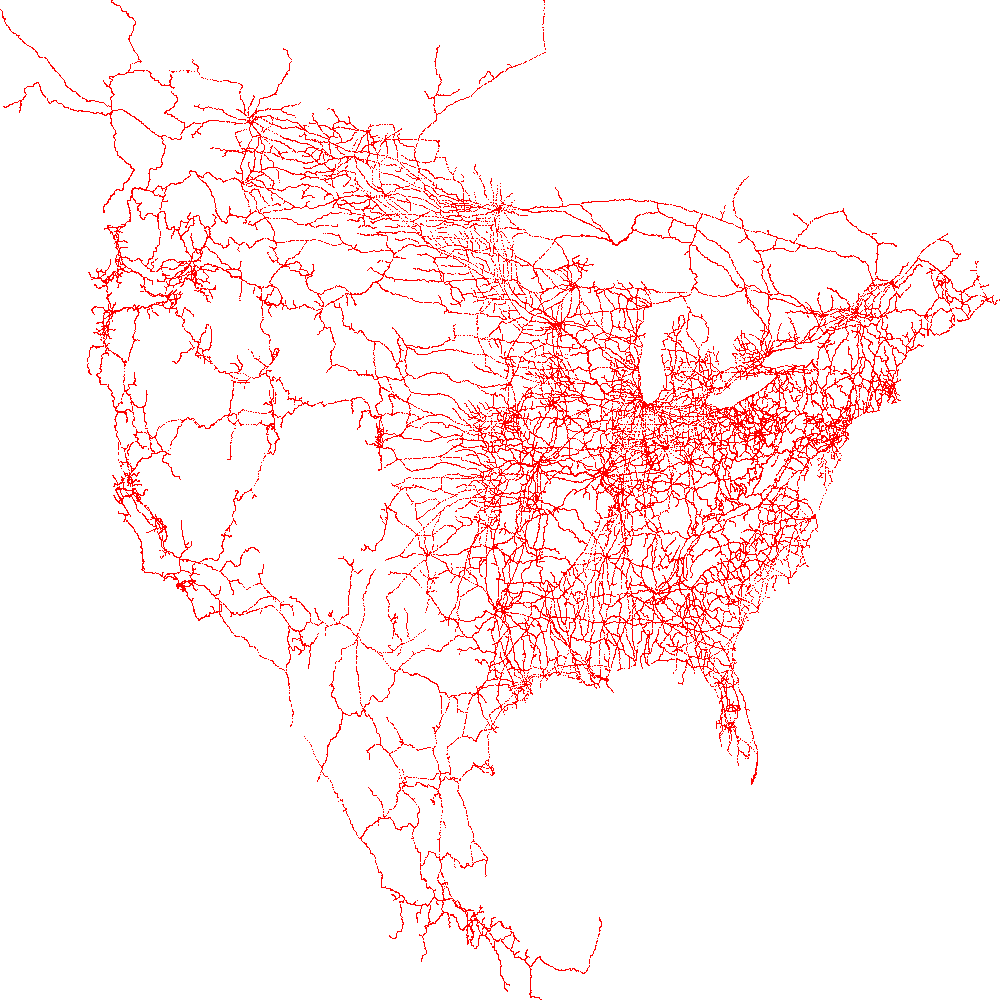
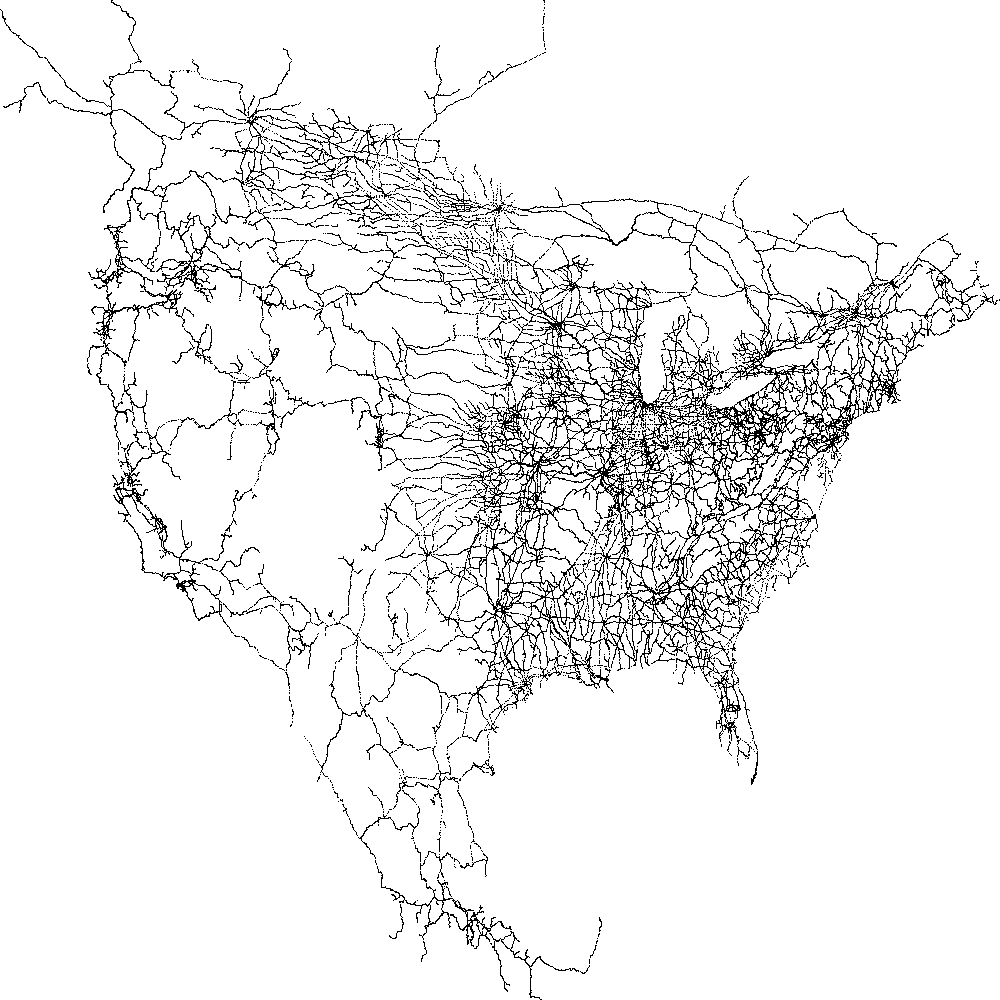
update visualization test cases

diff --git a/tests/test_Dijkstra.cpp b/tests/test_Dijkstra.cpp
@@ -21,12 +21,11 @@ TEST_CASE("Dijkstra works on simple route", "[line]") {
     graphReader.readNodes();
     graphReader.readEdges();
 
-    std::vector<int> path = graph.Dijkstra(7,8);
+    std::vector<int> path = graph.Dijkstra(7, 8);
 
     REQUIRE(path.size() == 2);
     REQUIRE(path[0] == 8);
     REQUIRE(path[1] == 8);
-
 
 }
 
@@ -38,7 +37,7 @@ TEST_CASE("Dijkstra works on cyclic route 1", "[cycle]") {
     graphReader.readNodes();
     graphReader.readEdges();
 
-    std::vector<int> path = graph.Dijkstra(1,5);
+    std::vector<int> path = graph.Dijkstra(1, 5);
 
     REQUIRE(path.size() == 5);
     REQUIRE(path[0] == 2);
@@ -57,7 +56,7 @@ TEST_CASE("Dijkstra works on cyclic route 2", "[cycle]") {
     graphReader.readNodes();
     graphReader.readEdges();
 
-    std::vector<int> path = graph.Dijkstra(2,6);
+    std::vector<int> path = graph.Dijkstra(2, 6);
 
     REQUIRE(path.size() == 4);
     REQUIRE(path[0] == 4);
@@ -75,7 +74,7 @@ TEST_CASE("Dijkstra works on cyclic route 3", "[cycle]") {
     graphReader.readNodes();
     graphReader.readEdges();
 
-    std::vector<int> path = graph.Dijkstra(1,6);
+    std::vector<int> path = graph.Dijkstra(1, 6);
 
     REQUIRE(path.size() == 6);
     REQUIRE(path[0] == 2);
@@ -95,7 +94,7 @@ TEST_CASE("Dijkstra works on dsiconnected route ", "[disconnected]") {
     graphReader.readNodes();
     graphReader.readEdges();
 
-    std::vector<int> path = graph.Dijkstra(1,7);
+    std::vector<int> path = graph.Dijkstra(1, 7);
 
     REQUIRE(path.size() == 6);
     REQUIRE(path[0] == 2);

diff --git a/tests/test_BFS.cpp b/tests/test_BFS.cpp
@@ -21,12 +21,11 @@ TEST_CASE("BFS works on simple route", "[line]") {
     graphReader.readNodes();
     graphReader.readEdges();
 
-    std::vector<int> path = graph.BFS(7,8);
+    std::vector<int> path = graph.BFS(7, 8);
 
     REQUIRE(path.size() == 2);
     REQUIRE(path[0] == 8);
     REQUIRE(path[1] == 8);
-
 
 }
 
@@ -38,7 +37,7 @@ TEST_CASE("BFS works on cyclic route 1", "[cycle]") {
     graphReader.readNodes();
     graphReader.readEdges();
 
-    std::vector<int> path = graph.BFS(1,5);
+    std::vector<int> path = graph.BFS(1, 5);
 
     REQUIRE(path.size() == 5);
     REQUIRE(path[0] == 2);
@@ -57,7 +56,7 @@ TEST_CASE("BFS works on cyclic route 2", "[cycle]") {
     graphReader.readNodes();
     graphReader.readEdges();
 
-    std::vector<int> path = graph.BFS(2,6);
+    std::vector<int> path = graph.BFS(2, 6);
 
     REQUIRE(path.size() == 4);
     REQUIRE(path[0] == 4);
@@ -75,7 +74,7 @@ TEST_CASE("BFS works on cyclic route 3", "[cycle]") {
     graphReader.readNodes();
     graphReader.readEdges();
 
-    std::vector<int> path = graph.BFS(1,6);
+    std::vector<int> path = graph.BFS(1, 6);
 
     REQUIRE(path.size() == 6);
     REQUIRE(path[0] == 2);
@@ -95,7 +94,7 @@ TEST_CASE("BFS works on dsiconnected route ", "[disconnected]") {
     graphReader.readNodes();
     graphReader.readEdges();
 
-    std::vector<int> path = graph.BFS(1,7);
+    std::vector<int> path = graph.BFS(1, 7);
 
     REQUIRE(path.size() == 6);
     REQUIRE(path[0] == 2);

diff --git a/tests/test_visualization.cpp b/tests/test_visualization.cpp
@@ -45,17 +45,29 @@
 
 
 TEST_CASE("Visualization", "[vis]") {
-    cs225::PNG* png = new cs225::PNG(1000,1000);
-    Graph* graph = new Graph();
-    GraphReader gr(graph,"dataset/NA.cnode", "dataset/NA.cedge");
+    cs225::PNG *png = new cs225::PNG(1000, 1000);
+    Graph *graph = new Graph();
+    GraphReader gr(graph, "dataset/NA.cnode", "dataset/NA.cedge");
     gr.readNodes();
     for (size_t i = 0; i < 175812; ++i) {
         auto node = graph->getNodeAt(i);
         auto x = node.X;
         auto y = node.Y;
-        png->getPixel((x/10),1000-(y/10)) = cs225::HSLAPixel(0,1,0.5);
+        png->getPixel((x / 10), 1000 - (y / 10)) = cs225::HSLAPixel(0, 1, 0);
     }
     png->writeToFile("dataset/base.png");
     delete png;
     delete graph;
+}
+
+TEST_CASE("Path Visualization", "[path]") {
+    cs225::PNG *png = new cs225::PNG(1000, 1000);
+    png->readFromFile("dataset/base.png");
+    Graph *graph = new Graph();
+    GraphReader gr(graph, "dataset/NA.cnode", "dataset/NA.cedge");
+    gr.readNodes();
+    std::vector<int> v;
+    v = graph->BFS(1, 500);
+    graph->drawPath(png, v);
+    png->writeToFile("dataset/path.png");
 }
